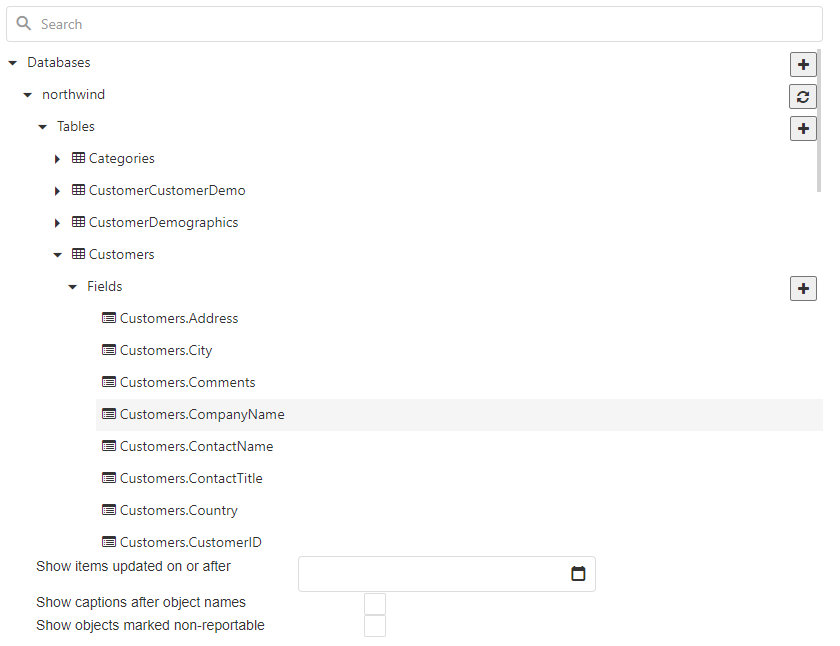
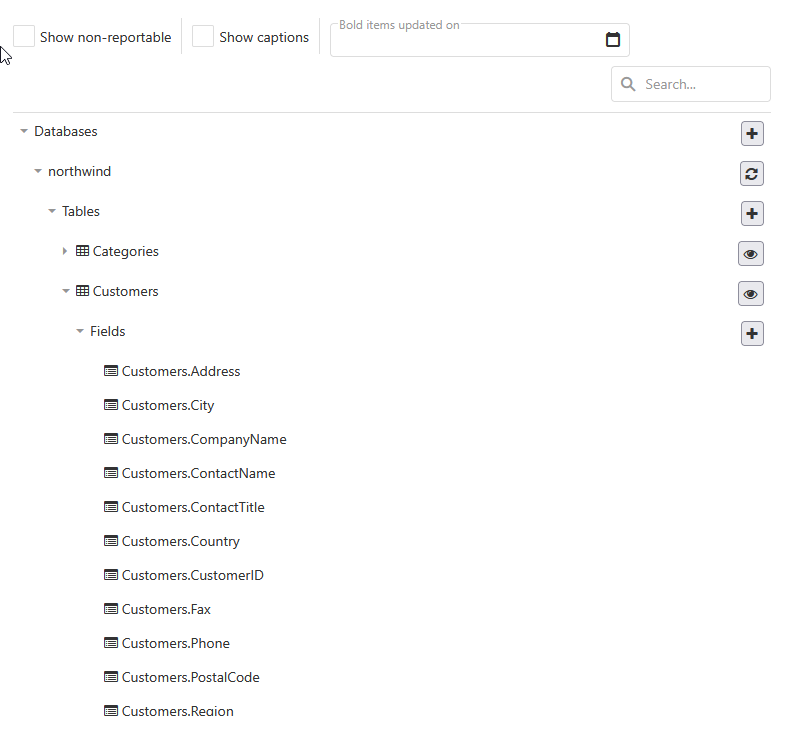
Updated for 1.4 release.

diff --git a/_docs/whats-new.md b/_docs/whats-new.md
@@ -5,54 +5,70 @@ nav_order: 2
 parent: Home
 ---
 
-# Version 1.3
+# Version 1.4
 
-* Horizon Reports has a new application database format that unifies storage for all application data (e.g. reports, templates, schedules, formulas, data sources, security objects).
+* The primary navigation control in [Studio]({% link _docs/studio/working-with-studio.md %}) for interacting with the data dictionary has been replaced. The previous control had issues with performance and scrolling that were difficult to fix due to how it worked. The new control has much better performance, and always maintains the correct scroll position even after updating to accomodate new items. The new control also supports navigating with the arrow keys and spacebar on a keyboard, similar to the desktop version of Studio. 
 
-* Horizon Reports now uses .NET 8
+* The context menu for [previewing tables]({% link _docs/studio/datadictionary/view-table-contents.md %}) in the previous control has been replaced with a preview button. 
 
-* Updating the connection string for a [database]({% link _docs/studio/datadictionary/database-properties.md %}) in Studio no longer requires a restart to take effect. 
+* When previewing table contents in Studio, columns with errors are detected automatically and removed from the query so the remaining fields can still be inspected. This means that a single calculated field with a syntax error in the expression will no longer prevent the entire table from being previewed. 
 
-* Swapped MySql.Data.MySqlClient provider with MySqlConnector since it works better with MariaDB
+* A new configuration setting, [Login Failure Limit]({% link _docs/studio/configuration/configuration-settings.md %}), allows you to define the number of failed login attempts are allowed before being restricted for 5 minutes. The default limit is 5 login attempts, and can be disabled by setting to 0. 
 
-* Defined foreign keys in the database schema for a MySql database will now appear as corresponding [relations]({% link _docs/studio/datadictionary/relation-properties.md %}) for the table in Studio.
+* [External authentication]({% link _docs/how-to/externalidentproviders.md %}) now supports a reporting_roles claim. If present, any users created as part of a single sign on attempt will have those roles attached.
 
-* You can now use [external authentication]({% link _docs/how-to/externalidentproviders.md %}) (Open ID Connect) with a tenant based project. 
+* [External authentication]({% link _docs/how-to/externalidentproviders.md %}) in a tenant based project can now pass a claim named reporting_tenant in case a claim named tenant is already in use.
 
-* Externally authenticated users can now use 2-factor authentication.
+* A new toggle is available in [Studio]({% link _docs/studio/working-with-studio.md %}) that will globally disable the scheduler. This is handy if you want to test a copy of a live/production reporting project in a lab environment, but don't want the schedules to be sent with sample data. 
 
-* Data sources in the [connection string manager]({% link _docs/studio/datadictionary/database-properties.md %}) are now tested and saved one at a time, rather than all at once. 
+* It's no longer possible to [create a project]({% link _docs/studio/creating-a-project.md %}) with a blank name.
 
-* You can now save a connection string, even if a test connection fails. 
+* You can now define multiple data sources even if [Allow Multiple Data Sources]({% link _docs/studio/configuration/configuration-settings.md %}) is disabled for a project. This allows you to use the built in connection string or DSN manager to define data sources for a tenant based project. 
 
-* The [connection string builder]({% link _docs/studio/datadictionary/connection-string-builder.md %}) is now available from a few new places.
+* In Studio, you can now search the [data dictionary]({% link _docs/studio/datadictionary/index.md %}) by version as well as name.
 
-* The report writer navigation button in Studio no longer requires a restart.
+* Sorting data dictionary items now ignores case and special characters for a more logical ordering. 
 
-* If a project has more than one database, the source database name is displayed in the table caption when [creating a relation]({% link _docs/studio/datadictionary/relation-properties.md %}).
+* If a report belongs to a [tenant]({% link _docs/studio/multi-tenant.md %}), it will now always retrieve data from that tenant's data source. This means that you can run and edit tenant based reports and test them against a tenant's data source while logged in with an Administrator account. 
 
-* If you change any [authentication settings]({% link _docs/studio/configuration/configuration-settings.md %}) for a project, you now get a warning that a restart is required for the changes to take effect.
+* The [configuration section]({% link _docs/studio/configuration/configuration-settings.md %}) in Studio has a new Email tab where you can define Default email settings to use for the scheduler when a user hasn't defined custom settings. If you previously used the "Use as default settings for all users" option for this purpose, those settings will get automatically imported to the new location.
 
-* If the [authentication settings]({% link _docs/studio/configuration/configuration-settings.md %})for a project are causing a startup failure or a login problem, you can use the new command line parameter clearauthsettings=true. This allows you to start up the project locally while ignoring the authenticaiton settings to resolve the issue.
+* The report files are once again persisted to a subfolder called "Reports" in the App_Data folder. In the previous 1.3 release, report storage moved from disk based individual files to a database table for improved performance. Reports aren't automatically imported to the report database from this folder, but they are much easier to back up when stored as individual text files on disk. 
 
-* Sql Server and MySql [project]({% link _docs/studio/creating-a-project.md %}) connection types also have a default connection string similar to SQLite.
+* The [default table]({% link _docs/studio/configuration/configuration-settings.md %}) for a new project is now automatically set to the first table discovered during the scan. 
 
-* The Source Database field should now only appear if tenant support is off. You can also disable the field manually with a [new setting]({% link _docs/studio/configuration/configuration-settings.md %}).
-
-* The installation folder now takes up less space and contains fewer files.
+* The forms for editing [databases]({% link _docs/studio/datadictionary/database-properties.md %}), [tables]({% link _docs/studio/datadictionary/table-properties.md %}), [fields]({% link _docs/studio/datadictionary/field-properties.md %}), and [joins]({% link _docs/studio/datadictionary/relation-properties.md %}) now have change detection which disables the Save button until changes are made. 
 
 ## Bug Fixes
 
-* Fixed an issue where scrolling to the selected item in the database treeview sometimes scrolled to a previously clicked item.
+* Fixed an issue with the Display related field setting not working.
 
-* Fixed a bug where the database schema would be ignored during a refresh. 
+* Fixed an issue with access rights not being applied properly to a report when importing an entire project.
 
-* Fixed an issue where a project could get partially created and prevent the application from starting up.
+* Fixed an issue with calculated fields sometimes referencing themselves in the fields involved list.
 
-* Fixed typos in a number of UI captions.
+* Fixed an issue with custom images like logos not being loaded.
 
-* Fixed a bug that allowed saving a join with an invalid field value.
+* The total repeats possible for a recurring scheduled task can no longer exceed the day. This fixes an issue where a repeating task could interfere with a previous version of itself.
 
-* You can no longer create a project with a blank name.
+* Fixed an issue with Studio link sometimes not appearing for administrators.
 
-* Fixed an issue with dynamic formatters not appearing properly in the list of available formats in Studio.
+* Fixed a bug that would occasionally cause a new table to be created during a data dictionary refresh, rather than updating the proper existing entry.
+
+* Fixed a schema discovery issue with MySQL databases.
+
+* Fixed an issue with transient lookup fields appearing to end users in the report wizards.
+
+* Fixed an issue with user roles not being re-loaded properly after a restart.
+
+* Fixed a redirect loop that would sometimes occur when setting up a fresh project. 
+
+* Fixed a bug with the connection string manager not handling new data sources when added to an existing project.
+
+* Updated several dependecies to fix reported vulnerabilties. 
+
+* Fixed a very rare issue where an outer join in a query would cause the primary key constraint from the parent in the join to be retrieved along with the data.
+
+* Fixed a bug where the weight of a new join would be 0, causing a pathfinding problem.
+
+* Fixed a bug that prevented changing projects. 

diff --git a/_docs/previous-releases/hr1.3.md b/_docs/previous-releases/hr1.3.md
@@ -1,0 +1,59 @@
+---
+layout: default
+title: Horizon Reports 1.3
+nav_order: 1
+parent: Previous Releases
+grand_parent: Home
+---
+
+# Version 1.3
+
+* Horizon Reports has a new application database format that unifies storage for all application data (e.g. reports, templates, schedules, formulas, data sources, security objects).
+
+* Horizon Reports now uses .NET 8
+
+* Updating the connection string for a [database]({% link _docs/studio/datadictionary/database-properties.md %}) in Studio no longer requires a restart to take effect. 
+
+* Swapped MySql.Data.MySqlClient provider with MySqlConnector since it works better with MariaDB
+
+* Defined foreign keys in the database schema for a MySql database will now appear as corresponding [relations]({% link _docs/studio/datadictionary/relation-properties.md %}) for the table in Studio.
+
+* You can now use [external authentication]({% link _docs/how-to/externalidentproviders.md %}) (Open ID Connect) with a tenant based project. 
+
+* Externally authenticated users can now use 2-factor authentication.
+
+* Data sources in the [connection string manager]({% link _docs/studio/datadictionary/database-properties.md %}) are now tested and saved one at a time, rather than all at once. 
+
+* You can now save a connection string, even if a test connection fails. 
+
+* The [connection string builder]({% link _docs/studio/datadictionary/connection-string-builder.md %}) is now available from a few new places.
+
+* The report writer navigation button in Studio no longer requires a restart.
+
+* If a project has more than one database, the source database name is displayed in the table caption when [creating a relation]({% link _docs/studio/datadictionary/relation-properties.md %}).
+
+* If you change any [authentication settings]({% link _docs/studio/configuration/configuration-settings.md %}) for a project, you now get a warning that a restart is required for the changes to take effect.
+
+* If the [authentication settings]({% link _docs/studio/configuration/configuration-settings.md %})for a project are causing a startup failure or a login problem, you can use the new command line parameter clearauthsettings=true. This allows you to start up the project locally while ignoring the authenticaiton settings to resolve the issue.
+
+* Sql Server and MySql [project]({% link _docs/studio/creating-a-project.md %}) connection types also have a default connection string similar to SQLite.
+
+* The Source Database field should now only appear if tenant support is off. You can also disable the field manually with a [new setting]({% link _docs/studio/configuration/configuration-settings.md %}).
+
+* The installation folder now takes up less space and contains fewer files.
+
+## Bug Fixes
+
+* Fixed an issue where scrolling to the selected item in the database treeview sometimes scrolled to a previously clicked item.
+
+* Fixed a bug where the database schema would be ignored during a refresh. 
+
+* Fixed an issue where a project could get partially created and prevent the application from starting up.
+
+* Fixed typos in a number of UI captions.
+
+* Fixed a bug that allowed saving a join with an invalid field value.
+
+* You can no longer create a project with a blank name.
+
+* Fixed an issue with dynamic formatters not appearing properly in the list of available formats in Studio.

diff --git a/_docs/studio/configuration/configuration-settings.md b/_docs/studio/configuration/configuration-settings.md
@@ -111,21 +111,25 @@ In certain types of applications, such as an accounting system, you may want the
 
 * *Skip Schema Retrieval when Running a Report*: If you set this option to true, the report writer will skip retrieving the schema for a query prior to actually executing the query. This can slightly improve performance, but database queries issued this way cannot be cancelled.
 
-## Web Settings
+## Email settings
 
-* *Users Can Register on Login Page*: If this is set to True, unauthorized users can click a link on the login page to be given access to the application. This is typically only turned on in demo web sites. Note that the link only appears if the various Demo Email settings are filled in.
+* *Default Email Sender Address*: This is the email address to send default messages (Password Resets, New User Registration, Scheduled emails, etc...) from.
 
-* *Server Email Sender Address*: This is the email address to send server messages (Password Resets, New User Registration, etc...) from.
+* *Default Email Sender Name*: This is the descriptive name of the sender default messages are from.
 
-* *Server Email Sender Name*: This is the descriptive name of the sender server messages are from.
-
-* *Server Email SMTP Server*: This is the address of the SMTP server to send the messages from.
+* *Default Email SMTP Server*: This is the address of the SMTP server to send the messages from.
 
 * *Server Email SMTP Port*: This is the port to use for the SMTP server when sending messages.
 
-* *Server Email SMTP User Name*: This is the user name of the mail account to send server messages from.
+* *Server Email SMTP User Name*: This is the user name of the mail account to send messages from.
 
-* *Server Email SMTP Password*: This is the password of the mail account to send server messages from.
+* *Server Email SMTP Password*: This is the password of the mail account to send messages from.
+
+The email settings defined here will be used to send scheduled emails if a user doesn't have custom settings defined.
+
+## Web Settings
+
+* *Users Can Register on Login Page*: If this is set to True, unauthorized users can click a link on the login page to be given access to the application. This is typically only turned on in demo web sites. Note that the link only appears if the various Demo Email settings are filled in.
 
 * *Support Multi-Tenant Environment*: Set this setting to True to enable [multi-tenant support]({% link _docs/studio/multi-tenant.md %}).
 
@@ -134,6 +138,8 @@ In certain types of applications, such as an accounting system, you may want the
 * *Data Type of Tenant Filter Field*: This specifies the data type of the field specified in the *Filter field for queries in multi-tenant* setting.
 
 * *Disable Slide Toggles*: Set this to true to hide the slide toggle style checkboxes and display standard checkboxes instead.
+
+* *Login Failure Limit*: The number of login failures a user is allowed in a 5 minute period before they are banned (for 5 minutes).
 
 ## Auth Settings
 

diff --git a/_docs/how-to/externalidentproviders.md b/_docs/how-to/externalidentproviders.md
@@ -29,9 +29,13 @@ To enable external authentication using OpenID Connect, you need to specify the 
 
 * *OpenID ClientSecret*: The secret key value to send to the OpenID Connect authentication server.
 
+## Automatically assign roles on user creation
+
+The first time a user logs in with external authentication, a local Horizon Reports user account is created. During this process, you can have the Identity Provider instruct Horizon Reports to assign roles when the user is created. To do this, attach a comma-separated list of role names (for existing roles) to the ID Token the IdP server returns during authentication.
+
 ## Tenant Support With OIDC
 
-If you have tenants enabled for a project, you can still use external authentication. In this case, during the connection/authorization process, the Identity Provider must tell Horizon Reports what tenant the current user belongs to. To do this, attach a tenant claim (for an existing tenant) to the ID Token the IdP server returns during authentication. If there's no tenant attached, or the tenant that's attached doesn't exist, the login attempt will be rejected.
+If you have tenants enabled for a project, you can still use external authentication. In this case, during the connection/authorization process, the Identity Provider must tell Horizon Reports what tenant the current user belongs to. To do this, attach a tenant claim (for an existing tenant) to the ID Token the IdP server returns during authentication. If you have an existing external authentication system that already uses a claim named *tenant*, you can use *reporting_tenant* instead. If there's no tenant attached, or the tenant that's attached doesn't exist, the login attempt will be rejected.
 
 # Facebook
 

diff --git a/_docs/studio/datadictionary/view-table-contents.md b/_docs/studio/datadictionary/view-table-contents.md
@@ -13,3 +13,5 @@ You can use Studio to retrieve the data for a table. To do so, right click on th
 After the contents of the table are retrieved from the database, they appear in a dialog. 
 
 ![](/assets/images/tablecontents.png)
+
+If any of the columns defined for the table cause an error when executing the query, the retrieval will be tried again without the columns with errors. Any columns that initially generated an error will have their contents filled with "Error".

diff --git a/_docs/how-to/configuring.md b/_docs/how-to/configuring.md
@@ -76,3 +76,9 @@ You can configure the following options in an **hrsettings.json** file. The defa
     "CurrentProject": 1
 }
 ```
+- *SchedulerEnabled*: Set this to True (the default) to allow the scheduler to execute scheduled tasks. Normally you would change this value in the Horizon Reports Studio interface, but if you want the application to start with the scheduler disabled, you can change it here.
+```json
+{
+    "CurrentProject": true
+}
+```

diff --git a/_docs/studio/working-with-studio.md b/_docs/studio/working-with-studio.md
@@ -21,4 +21,6 @@ The Project menu has functions for [creating a new project]({% link _docs/studio
 
 * *[Configuration]({% link _docs/studio/configuration/configuration-settings.md %})*: Here you can modify customization settings for the reporting project.
 
+Clicking the *Scheduler On* button will disable the report scheduler until it's turned on again by clicking the same button.
+
 

diff --git a/_docs/previous-releases/sq1.5.md b/_docs/previous-releases/sq1.5.md
@@ -1,7 +1,7 @@
 ---
 layout: default
 title: Stonefield Query 1.5
-nav_order: 11
+nav_order: 12
 parent: Previous Releases
 grand_parent: Home
 ---

diff --git a/_docs/previous-releases/sq2.0.md b/_docs/previous-releases/sq2.0.md
@@ -1,7 +1,7 @@
 ---
 layout: default
 title: Stonefield Query 2.0
-nav_order: 10
+nav_order: 11
 parent: Previous Releases
 grand_parent: Home
 ---

diff --git a/_docs/previous-releases/sq3.0.md b/_docs/previous-releases/sq3.0.md
@@ -1,7 +1,7 @@
 ---
 layout: default
 title: Stonefield Query 3.0
-nav_order: 9
+nav_order: 10
 parent: Previous Releases
 grand_parent: Home
 ---

diff --git a/_docs/previous-releases/sq3.5.md b/_docs/previous-releases/sq3.5.md
@@ -1,7 +1,7 @@
 ---
 layout: default
 title: Stonefield Query 3.5
-nav_order: 8
+nav_order: 9
 parent: Previous Releases
 grand_parent: Home
 ---

diff --git a/_docs/previous-releases/sq4.0.md b/_docs/previous-releases/sq4.0.md
@@ -1,7 +1,7 @@
 ---
 layout: default
 title: Stonefield Query 4.0
-nav_order: 7
+nav_order: 8
 parent: Previous Releases
 grand_parent: Home
 ---
